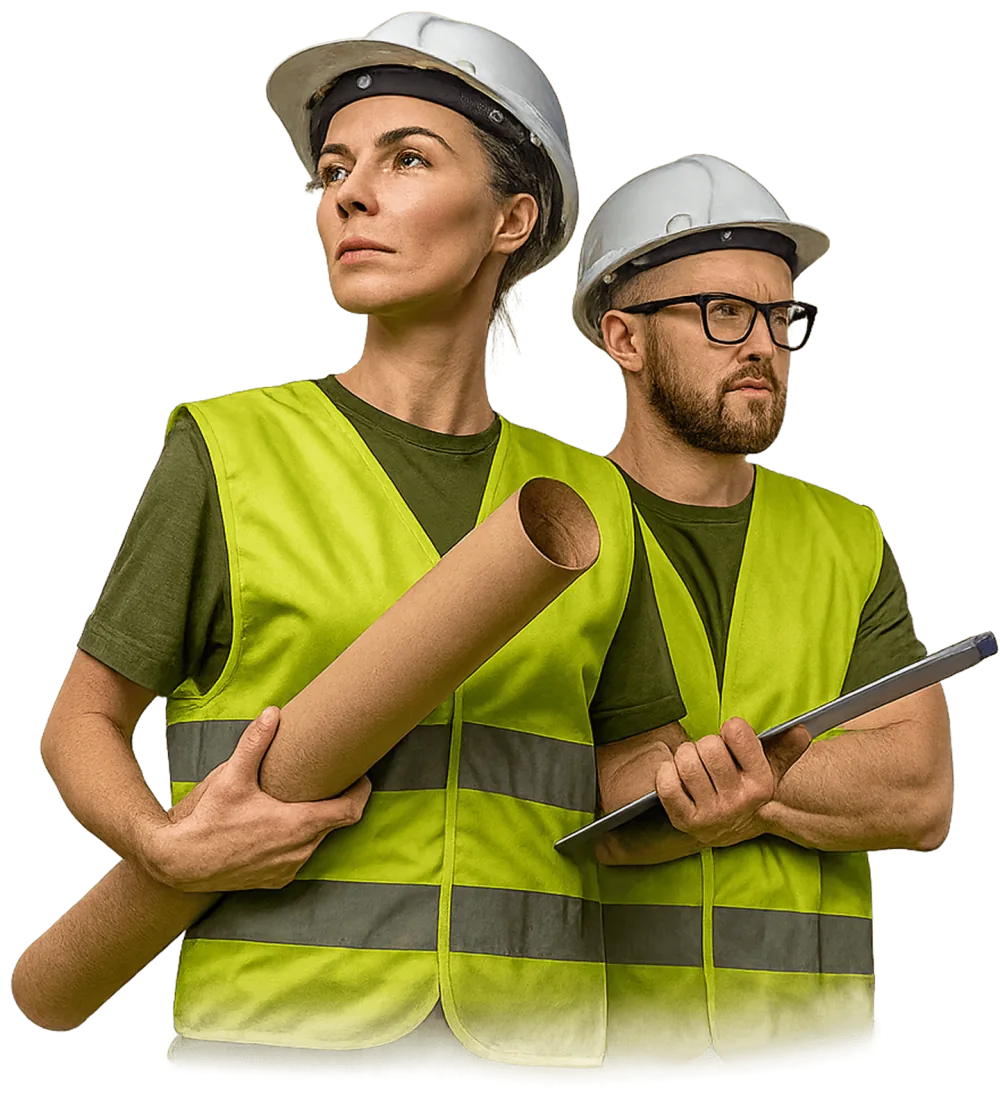
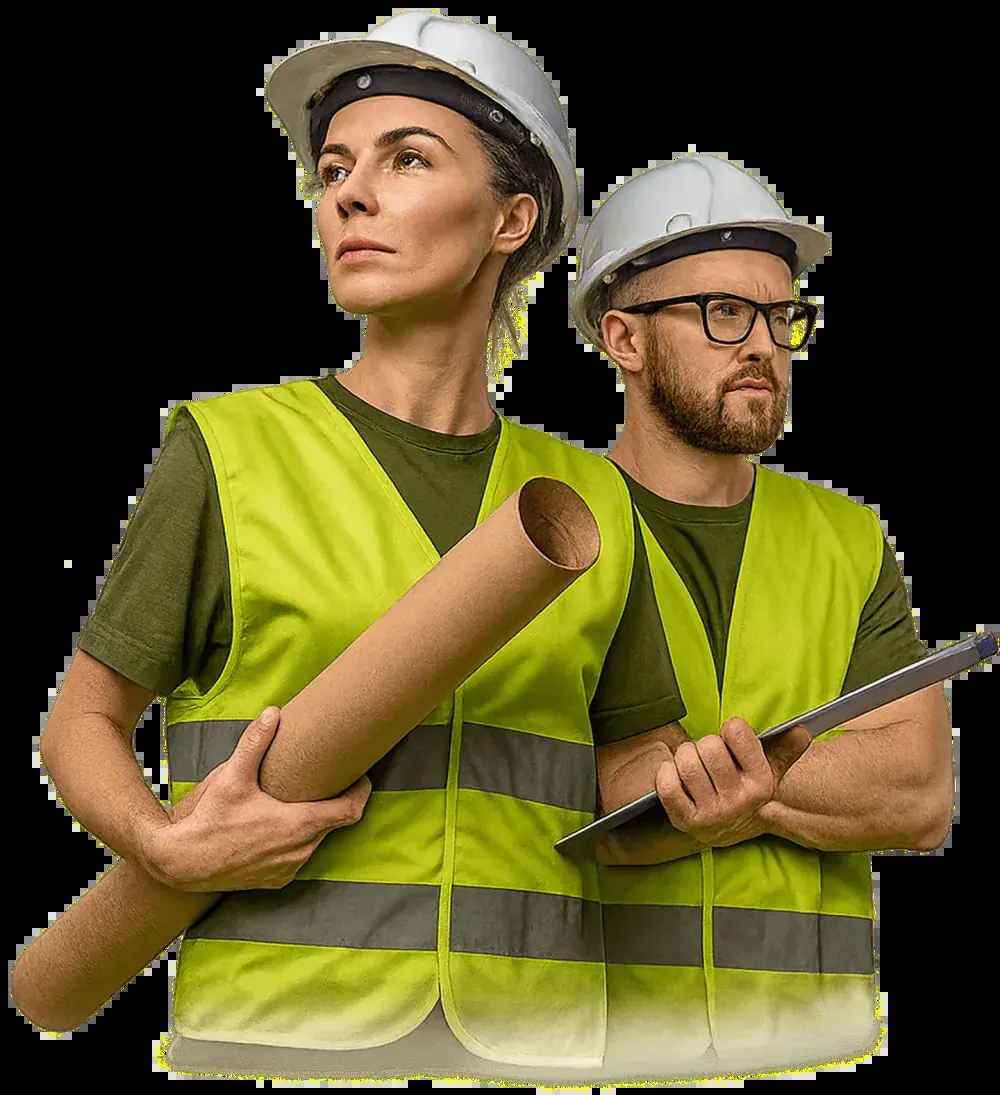
perf(mobile): no cargar three.min.js/scene.js en móvil + recomprimir imágenes
- three.min.js (605KB) + scene.js solo en desktop (document.write condicional);
  móvil usa el fallback de gradiente CSS ya codificado. GSAP/ScrollTrigger/Lenis se mantienen.
- 8 imágenes de contenido recomprimidas (764->564KB).

diff --git a/index.html b/index.html
@@ -963,13 +963,13 @@
 </footer>
 
 <!-- librerías -->
-<script src="js/libs/three.min.js" defer></script>
+<script>window.__noGL=!!(window.matchMedia&&window.matchMedia("(max-width:720px),(pointer:coarse)").matches);if(!window.__noGL)document.write('<scr'+'ipt src="js/libs/three.min.js" defer><\/scr'+'ipt>');</script>
 <script src="js/libs/gsap.min.js" defer></script>
 <script src="js/libs/ScrollTrigger.min.js" defer></script>
 <script src="js/libs/lenis.min.js" defer></script>
 <!-- app -->
 <script src="js/i18n.js?v=20260625f" defer></script>
-<script src="js/scene.js?v=20260622a" defer></script>
+<script>if(!window.__noGL)document.write('<scr'+'ipt src="js/scene.js?v=20260622a" defer><\/scr'+'ipt>');</script>
 <script src="js/sound.js?v=20260622a" defer></script>
 <script src="js/app.js?v=20260625g" defer></script>
 
